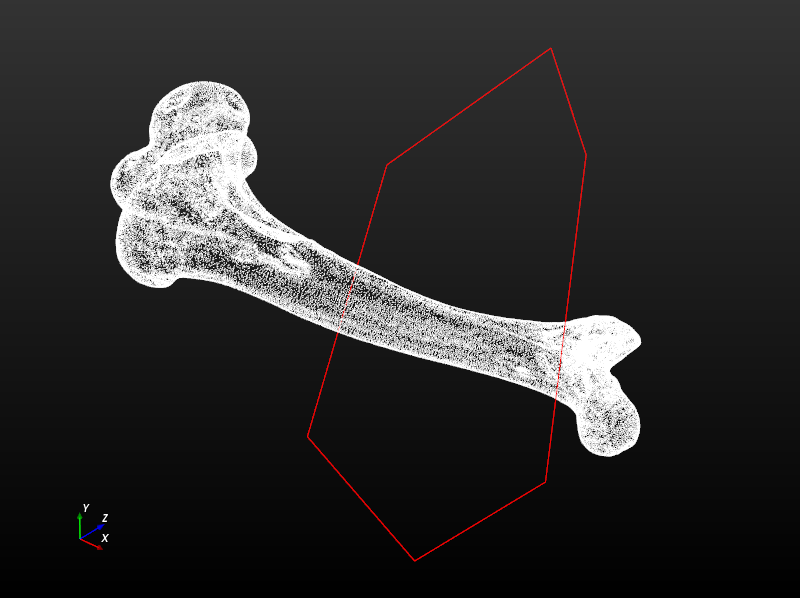
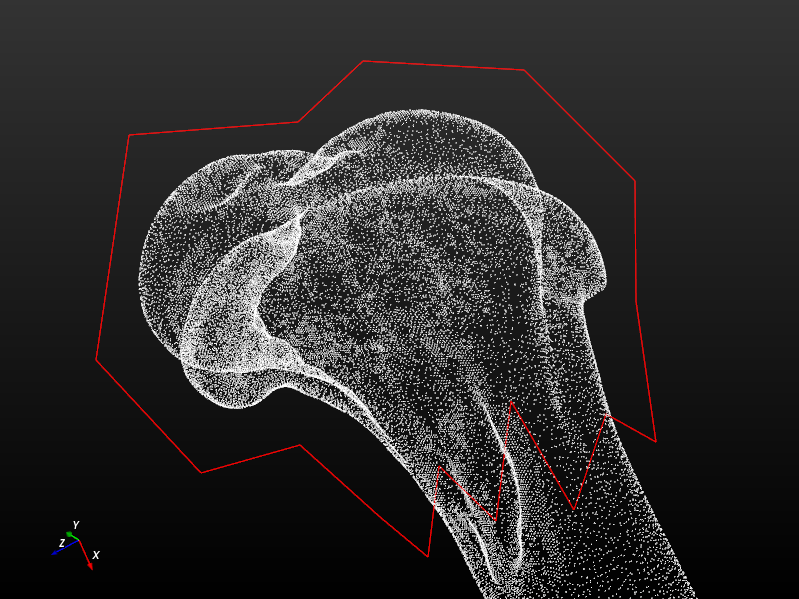
README

diff --git a/README.md b/README.md
@@ -1,4 +1,9 @@
 # PolygonSection
 Cut a point cloud drawing an irregular polygon on the screen
 
+Press **s** to enable drawing polygon.
+**Left** click in order to create a vertex
+**Right** click in order to save the section
+
 ![alt text](https://github.com/TIDOP-USAL/PolygonSection/blob/main/img/img.png)
+![alt text](https://github.com/TIDOP-USAL/PolygonSection/blob/main/img/img2.png)
